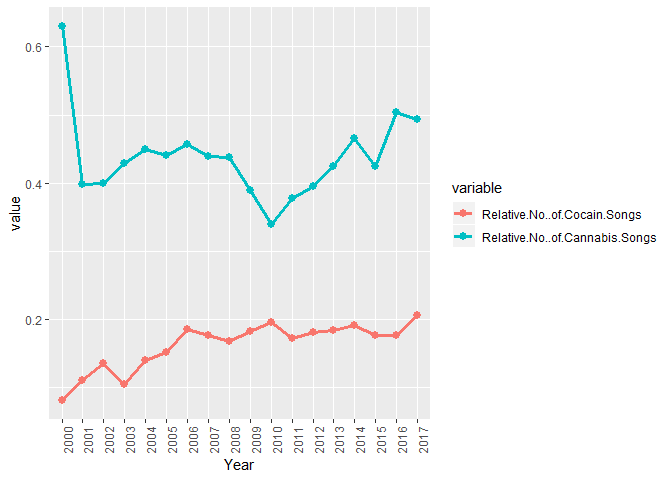
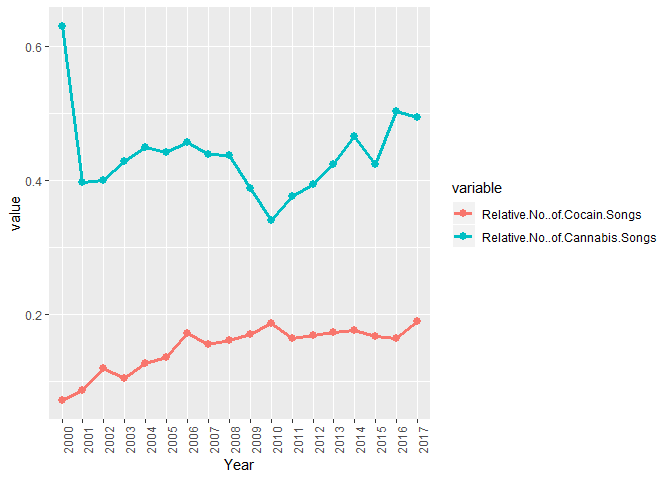
Add files via upload
wortsuche aktualisiert

diff --git a/readme.md b/readme.md
@@ -49,7 +49,7 @@ library(reshape2)
     ## Warning: package 'reshape2' was built under R version 3.5.3
 
 ``` r
-lyrics_list <- read.csv2("lyrics_list_drugcheck1.csv", stringsAsFactors = F)[,-c(1:2)]
+lyrics_list <- read.csv2("lyrics_list_drugcheck2.csv", stringsAsFactors = F)[,-c(1:2)]
 ```
 
 ------------------------------------------------------------------------
@@ -96,7 +96,7 @@ totalMelted <- melt(total_mentions, id.var='Total.No..of.Songs.Var1')
 ggplot(totalMelted, aes(x=Total.No..of.Songs.Var1, y=value, col=variable, group= variable)) + geom_line(size=1.2)  + geom_point(size=2.5) + theme(axis.text.x = element_text(angle = 90, hjust = 1))
 ```
 
-![](https://github.com/kilbu/RauschgiftInRap/blob/master/unnamed-chunk-5-1.png)
+![](DrogenkonsumRap_files/figure-markdown_github/unnamed-chunk-5-1.png)
 
 Die Suche nach Drogen-Namen wurde vorerst nur für Kokain und Cannabis durchgeführt. Es ist in diesem Graphen erkennbar, dass die Anzahl der Erwähnungen von Kokain (rote Linie) eindeutig eine steigende Tendenz hat. Ebenso verhält es sich mit Cannabis (blau). Allerdings kann man an der grünen Linie auch sehen, dass die Anzahl der Raplieder sowieso steigt. Daher kann der Anstieg der erwähnten Rauschmittel auch durch die allgemeine Zunahme der Lieder zustande kommen.   Die relativen Zahlen für jedes Jahr (also die Anzahl der Lieder mit Drogeninhalt im Verhältnis zur Gesamtzahl der Lieder in diesem Jahr) zeigt:
 
@@ -112,7 +112,7 @@ relativeMelted <- melt(relative_mentions, id.var='Year')
 ggplot(relativeMelted, aes(x=Year, y=value, col=variable, group= variable))  + geom_line(size=1.2)  + geom_point(size=2.5) + theme(axis.text.x = element_text(angle = 90, hjust = 1))
 ```
 
-![](https://github.com/kilbu/RauschgiftInRap/blob/master/unnamed-chunk-6-1.png)
+![](DrogenkonsumRap_files/figure-markdown_github/unnamed-chunk-6-1.png)
 
 Für Kokain sehen wir hier, dass die Anzahl der Lieder, in denen es erwähnt wird auch relativ gesehen eine steigende Tendenz hat. Zwar sank der Wert in manchen Jahren (z.B. 2002, 2003 und 2011), trotzdem zeigt der Graph im ganzen aufwärts.  
 
@@ -131,7 +131,7 @@ polizeiMelted <- melt(polizeistatistiken, id.var='Year')
 ggplot(polizeiMelted, aes(x=Year, y=value, col=variable, group= variable)) + geom_line(size=1.2) + geom_point(size=2.5) + theme(axis.text.x = element_text(angle = 90, hjust = 1))
 ```
 
-![](https://github.com/kilbu/RauschgiftInRap/blob/master/unnamed-chunk-7-1.png)
+![](DrogenkonsumRap_files/figure-markdown_github/unnamed-chunk-7-1.png)
 
 Man sieht, dass die Anzahl der erfassten Drogendelikte für Kokain (und Crack) im Beobachtungszeitraum relativ gering und konstant ist. Die Zahl der erfassten Cannabisdelikte variiert deutlich mehr und ist vor allem in den späteren Jahren steigend.  
 
@@ -153,26 +153,26 @@ summary(lm(df$relative_coke_mentions ~ df$Kokain_Faelle))
     ## 
     ## Residuals:
     ##      Min       1Q   Median       3Q      Max 
-    ## -0.07233 -0.00891  0.00769  0.01573  0.06183 
+    ## -0.06863 -0.00523  0.00655  0.01463  0.05953 
     ## 
     ## Coefficients:
     ##                     Estimate  Std. Error t value Pr(>|t|)    
-    ## (Intercept)       0.27198871  0.06218091    4.37  0.00047 ***
-    ## df$Kokain_Faelle -0.00000879  0.00000494   -1.78  0.09437 .  
+    ## (Intercept)       0.26863398  0.06114564    4.39  0.00045 ***
+    ## df$Kokain_Faelle -0.00000948  0.00000486   -1.95  0.06879 .  
     ## ---
     ## Signif. codes:  0 '***' 0.001 '**' 0.01 '*' 0.05 '.' 0.1 ' ' 1
     ## 
-    ## Residual standard error: 0.0325 on 16 degrees of freedom
-    ## Multiple R-squared:  0.165,  Adjusted R-squared:  0.113 
-    ## F-statistic: 3.16 on 1 and 16 DF,  p-value: 0.0944
+    ## Residual standard error: 0.0319 on 16 degrees of freedom
+    ## Multiple R-squared:  0.192,  Adjusted R-squared:  0.142 
+    ## F-statistic: 3.81 on 1 and 16 DF,  p-value: 0.0688
 
 ``` r
 confint(lm(df$relative_coke_mentions ~ df$Kokain_Faelle))
 ```
 
-    ##                        2.5 %      97.5 %
-    ## (Intercept)       0.14017107 0.403806353
-    ## df$Kokain_Faelle -0.00001927 0.000001689
+    ##                        2.5 %       97.5 %
+    ## (Intercept)       0.13901102 0.3982569463
+    ## df$Kokain_Faelle -0.00001979 0.0000008211
 
 Das Ergebnis dieser Regression lässt zuerst vermuten, dass zumindest der polizeilich erfasste Kokainkonsum im betreffenden Jahr keinen Einfluss auf die Erwähnung von Kokain in Raptexten hat. Die Fallzahlen des BKA zeigen zwar einen statistisch minimal signifikanten Einfluss. Jedoch ist dessen Höhe verschwindend gering und eine nähere Betrachtung der Konfidenzintervalle zeigt, dass nicht mit hinreichender Sicherheit gesagt werden kann, ob dieser Effekt positiv oder negativ ist. Die durch das Modell erklärte Varianz ist ebenfalls recht gering.  
 
@@ -210,25 +210,25 @@ summary(lm(df$relative_coke_mentions ~ df$Kokain_Faelle + df$Kokain_Faelle_t_min
     ## 
     ## Residuals:
     ##      Min       1Q   Median       3Q      Max 
-    ## -0.04679 -0.00901  0.00277  0.00871  0.02257 
+    ## -0.03026 -0.00747  0.00230  0.00572  0.02446 
     ## 
     ## Coefficients:
     ##                                Estimate   Std. Error t value Pr(>|t|)    
-    ## (Intercept)                 0.029928384  0.068001987    0.44  0.66709    
-    ## df$Kokain_Faelle            0.000002366  0.000004743    0.50  0.62623    
-    ## df$Kokain_Faelle_t_minus_1 -0.000000791  0.000004932   -0.16  0.87497    
-    ## df$coke_mentions_t_minus_1  0.735770363  0.171391335    4.29  0.00087 ***
+    ## (Intercept)                 0.007162404  0.057624997    0.12     0.90    
+    ## df$Kokain_Faelle            0.000002763  0.000004033    0.69     0.51    
+    ## df$Kokain_Faelle_t_minus_1 -0.000000551  0.000004189   -0.13     0.90    
+    ## df$coke_mentions_t_minus_1  0.812497781  0.147091895    5.52 0.000098 ***
     ## ---
     ## Signif. codes:  0 '***' 0.001 '**' 0.01 '*' 0.05 '.' 0.1 ' ' 1
     ## 
-    ## Residual standard error: 0.0185 on 13 degrees of freedom
+    ## Residual standard error: 0.0156 on 13 degrees of freedom
     ##   (1 observation deleted due to missingness)
-    ## Multiple R-squared:  0.665,  Adjusted R-squared:  0.588 
-    ## F-statistic: 8.61 on 3 and 13 DF,  p-value: 0.00209
+    ## Multiple R-squared:  0.769,  Adjusted R-squared:  0.715 
+    ## F-statistic: 14.4 on 3 and 13 DF,  p-value: 0.000201
 
 Dieses Modell scheint schon deutlich besser geeignet zu sein, um die verstärkte Erwähnung von Kokain im deutschen Rap zu erklären.  
 
-Es zeigt sich, dass die reale Anzahl der Kokaindelikte weder im selben, noch im vorherigen Jahr einen Einfluss auf dessen Erwähnung in Rapliedern hat. Einen stark positiven und statistisch hochsignifikanten Einfluss hat hingegen, ob im Vorjahr über Kokain gesprochen wurde. Ebenfalls erklärt dieses Modell nun etwa 60% der variation in der Anzahl der Lieder, die Kokain erwähnen.
+Es zeigt sich, dass die reale Anzahl der Kokaindelikte weder im selben, noch im vorherigen Jahr einen Einfluss auf dessen Erwähnung in Rapliedern hat. Einen stark positiven und statistisch hochsignifikanten Einfluss hat hingegen, ob im Vorjahr über Kokain gesprochen wurde. Ebenfalls erklärt dieses Modell nun etwa 78% der variation in der Anzahl der Lieder, die Kokain erwähnen.
 
  
 
